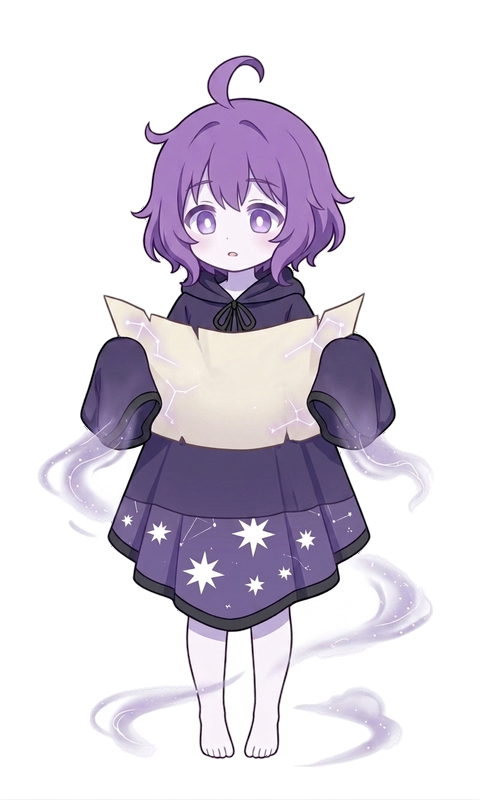
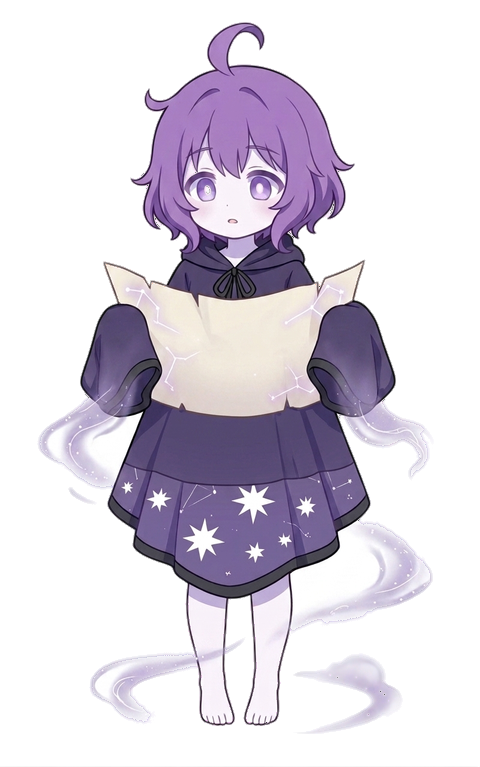
clean up aeth's empty and lost mascot art, add a cache-busting url version

diff --git a/crates/frontend/src/components/mascot.rs b/crates/frontend/src/components/mascot.rs
@@ -29,12 +29,18 @@ impl MascotState {
 /// Aeth, the mascot. Hidden entirely via the `.mascot-disabled .mascot { display: none; }`
 /// rule in style.css when the active theme has `mascot_enabled: false`, so
 /// this component doesn't need to read `ThemeStore` itself.
+// bump this whenever any file in assets/mascot/ changes - cloudflare
+// caches image responses at the edge for hours regardless of browser
+// cache state, so the url itself has to change or a stale pop keeps
+// serving the old art indefinitely
+const MASCOT_ASSET_VERSION: u32 = 5;
+
 #[component]
 pub fn Aeth(#[prop(into)] state: Signal<MascotState>, #[prop(optional, into)] class: String) -> impl IntoView {
     view! {
         <img
             class=format!("mascot {}", class)
-            src=move || format!("/assets/mascot/{}.png", state.get().asset_name())
+            src=move || format!("/assets/mascot/{}.png?v={}", state.get().asset_name(), MASCOT_ASSET_VERSION)
             alt="Aeth"
         />
     }
